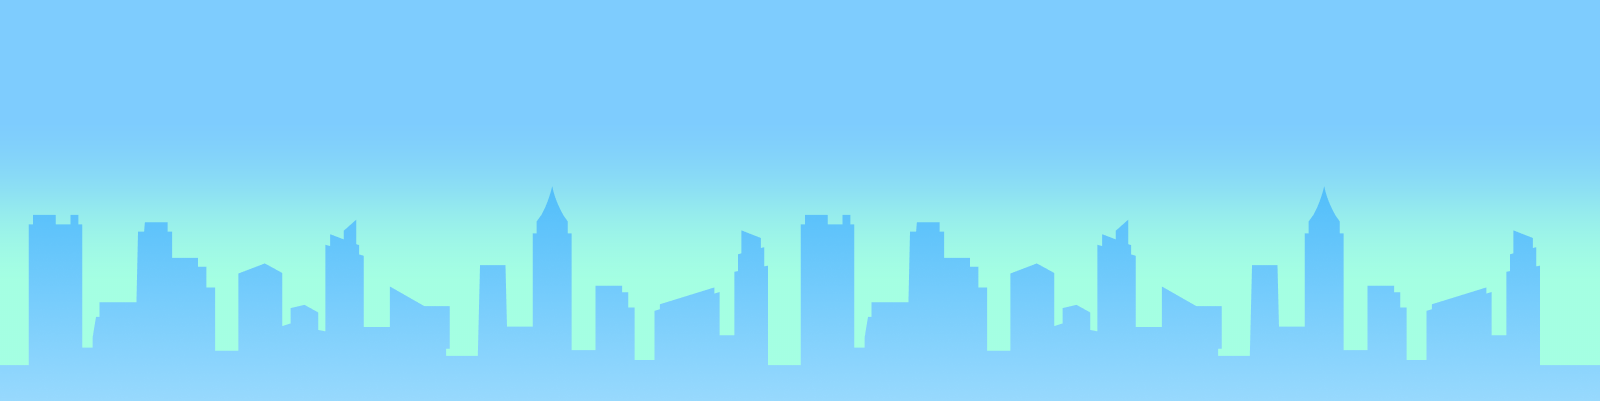
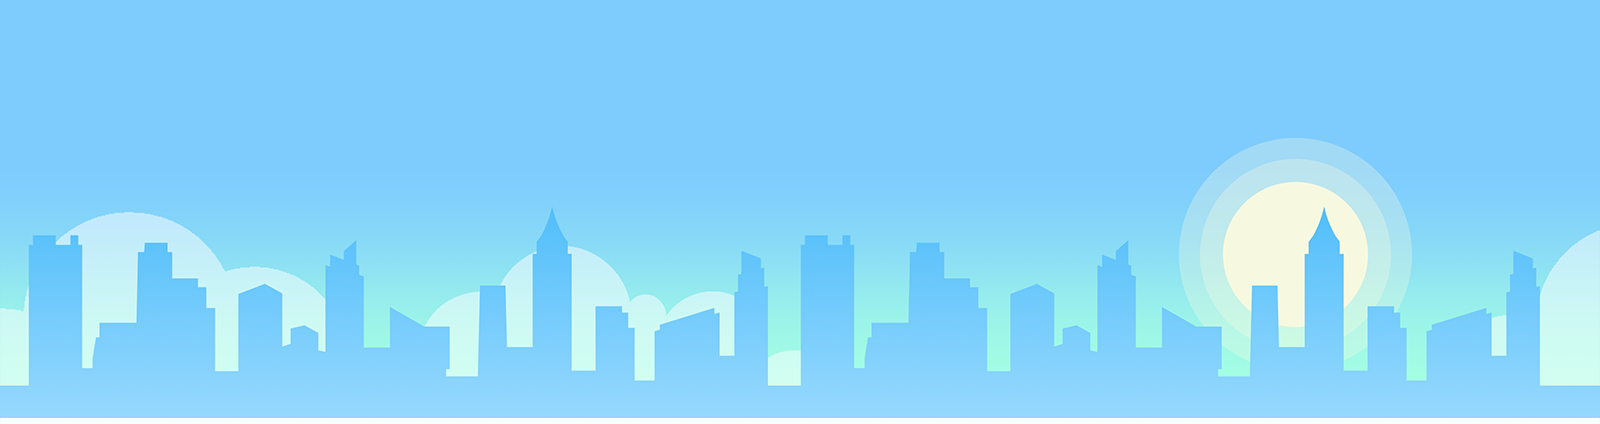
new arts and typo fixed

diff --git a/src/game/BusLevelData.ts b/src/game/BusLevelData.ts
@@ -1,64 +1,66 @@
 import { LevelData } from "./LevelData";
 
+// todo dont use image use hint sentence for id 1 and 10
+
 export const BUS_LEVELS_DATA: LevelData[] = [
     {
         id: 1,
         correctWord: "BERSIAR-SIAR",
-        hintSentence: "berjalan-jalan",
+        hintSentence: "Berjalan-jalan.",
         imageKey: null, //! dont use image for this question use sentenece
     },
     {
         id: 2,
         correctWord: "HINGGAP",
-        hintSentence: "terbang lalu berhenti di suatu tempat",
+        hintSentence: "Terbang lalu berhenti di suatu tempat.",
         imageKey: "hinggap"
     },
     {
         id: 3,
         correctWord: "KENDERAAN",
-        hintSentence: "sesuatu yang digunakan oleh orang ramai untuk bergerak dari satu tempat ke tempat lain",
+        hintSentence: "Sesuatu yang digunakan oleh orang ramai untuk bergerak dari satu tempat ke tempat lain.",
         imageKey: "kenderaan"
     },
     {
         id: 4,
         correctWord: "MENGHALAU",
-        hintSentence: "bergerak ke sesuatu tempat",
+        hintSentence: "Bergerak ke sesuatu tempat.",
         imageKey: "menghalau"
     },
     {
         id: 5,
         correctWord: "MENYESAL",
-        hintSentence: "rasa bersalah kerana melakukan sesuatu yang tidak baik",
+        hintSentence: "Rasa bersalah kerana melakukan sesuatu yang tidak baik.",
         imageKey: "menyesal"
     },
     {
         id: 6,
         correctWord: "MENYEWA",
-        hintSentence: "menggunakan sesuatu dengan membayar wang",
+        hintSentence: "Menggunakan sesuatu dengan membayar wang.",
         imageKey: "menyewa"
     },
     {
         id: 7,
         correctWord: "PANDUAN",
-        hintSentence: "arahan atau petunjuk yang membantu seseorang untuk mengetahui sesuatu",
+        hintSentence: "Arahan atau petunjuk yang membantu seseorang untuk mengetahui sesuatu.",
         imageKey: "panduan"
     },
     {
         id: 8,
         correctWord: "TERBELIAK",
-        hintSentence: "membuka mata dengan besar",
+        hintSentence: "Membuka mata dengan besar.",
         imageKey: "terbeliak"
     },
     {
         id: 9,
         correctWord: "TERPINGA-PINGA",
-        hintSentence: "hairan kerana tidak tahu perkara yang sedang berlaku",
+        hintSentence: "Hairan kerana tidak tahu perkara yang sedang berlaku.",
         imageKey: "terpinga-pinga"
     },
     {
         id: 10,
         correctWord: "TERUJA",
-        hintSentence: "sangat gembira atau bersemangat tentang sesuatu",
+        hintSentence: "Sangat gembira atau bersemangat tentang sesuatu.",
         imageKey: "teruja"
     }
 ];
